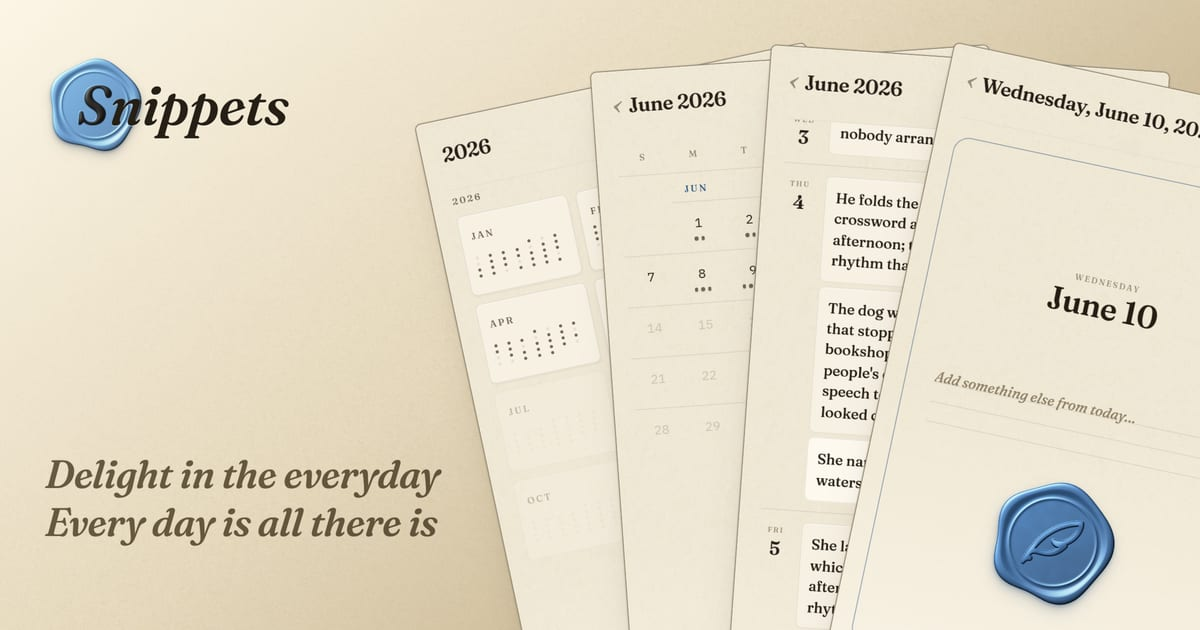
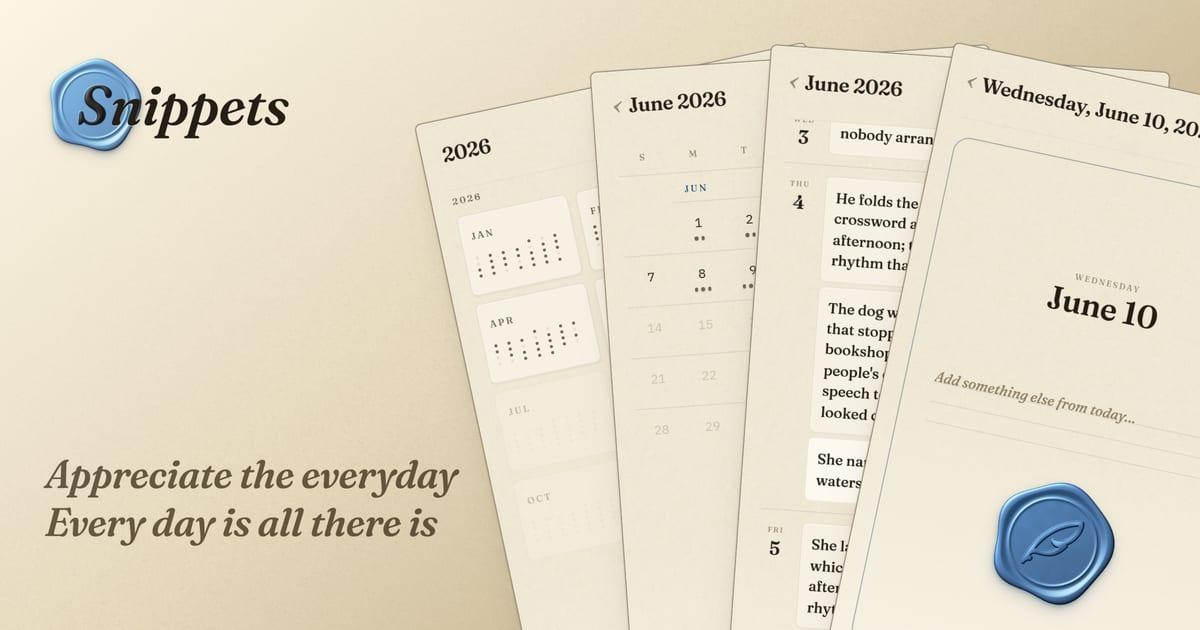
Preview: tagline -> "Appreciate the everyday"
Swap line 1 from "Delight in" to "Appreciate the everyday"; keep "Every day is
all there is". Update the OG alt text to match and re-bake.

Changed region(s): [[0.0308, 0.7238, 0.4008, 0.8143]]

diff --git a/src/lib/copy.ts b/src/lib/copy.ts
@@ -30,7 +30,7 @@ export const copy = {
     description:
       "A pocket notebook. Catch the stories, jokes, and stray thoughts of your day before they evaporate.",
     /** alt text for the link-preview image (src/app/opengraph-image.alt.txt is generated from this — keep them matched) */
-    ogAlt: "The Snippets wordmark over the words 'Delight in the everyday — every day is all there is,' beside a fanned stack of the app's pages — a year, a month, kept days, and today — sealed with blue wax. A pocket notebook.",
+    ogAlt: "The Snippets wordmark over the words 'Appreciate the everyday — every day is all there is,' beside a fanned stack of the app's pages — a year, a month, kept days, and today — sealed with blue wax. A pocket notebook.",
   },
 
   /** primary navigation — the desktop links and the mobile dock */
